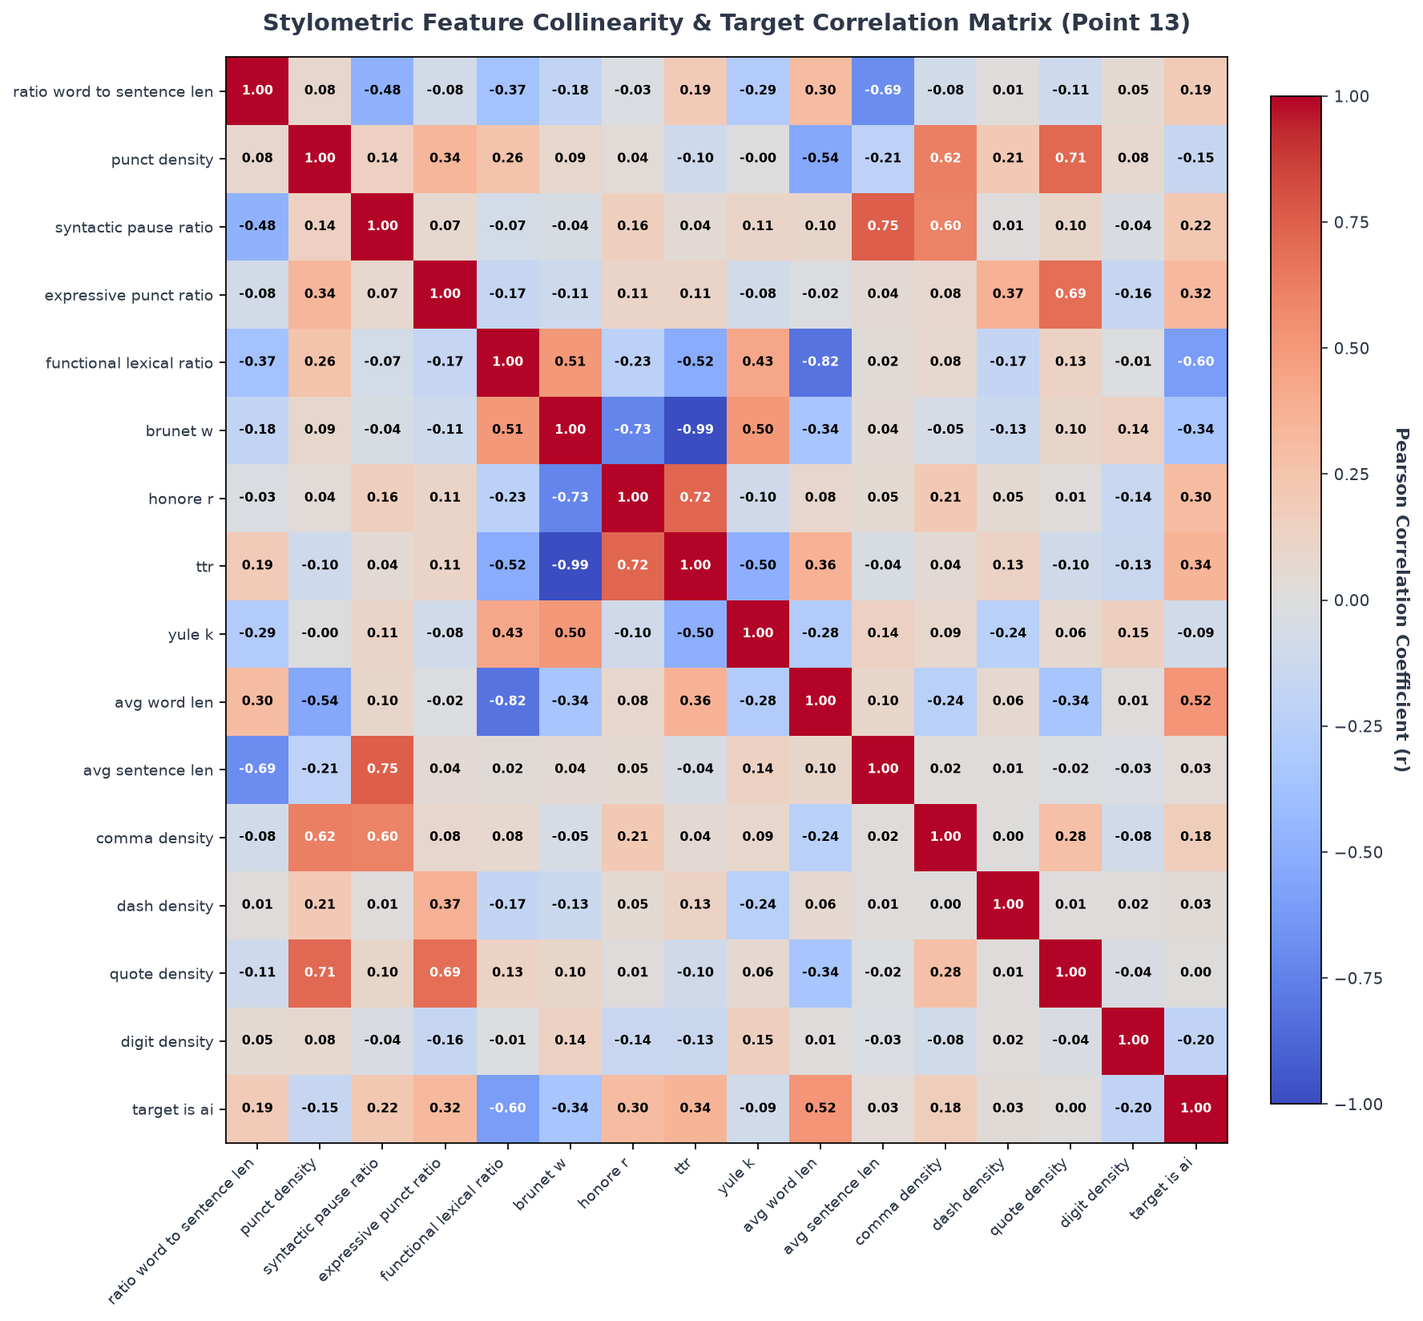
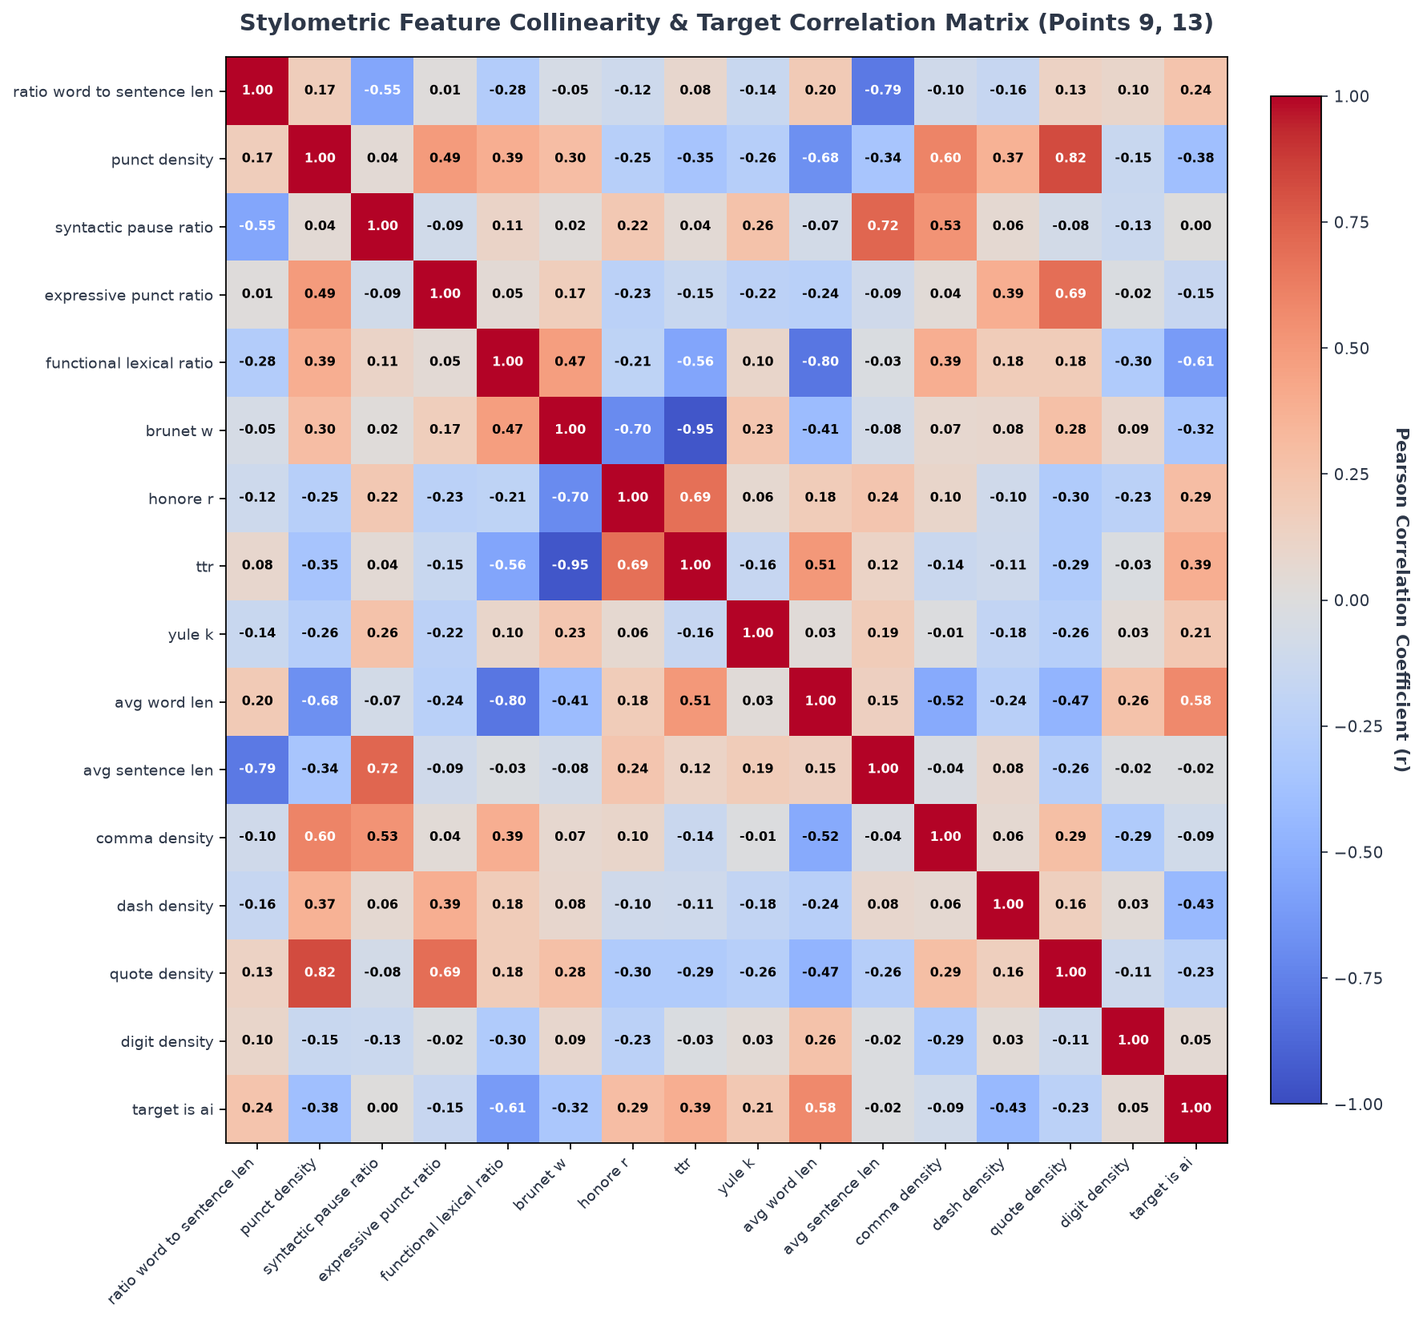
Correlation Matrix, Collinearity and Predictive Power (Points 9, 13)

Changed region(s): [[0.1548, 0.0, 0.8671, 0.8665], [0.6503, 0.1547, 0.6813, 0.1857]]

diff --git a/src/main.py b/src/main.py
@@ -246,22 +246,27 @@ def run_baseline_extraction_pipeline(max_records: int = 1000):
     return X, pipeline
 
 
-def run_point_13_advanced_derivation(n_samples: int = 2500):
+def run_correlation_matrix_pipeline(n_samples: Optional[int] = None):
     """
-    Executes Advanced Feature Derivation & Correlation Analysis (Point 13):
+    Executes Correlation Matrix & Predictive Power Analysis (Points 9, 13):
     1. Derives custom features (word-to-sentence ratio, punctuation density, expressive ratios, etc.)
-    2. Calculates empirical Pearson correlation with target output y (Human=0, AI=1)
-    3. Analyzes inter-feature collinearity
-    4. Generates publication-ready correlation heatmap in reports/figures/correlation_heatmap.png
+    2. Calculates empirical Pearson correlation with target output y (Human=0, AI=1) to demonstrate predictive power.
+    3. Analyzes inter-feature collinearity (|r| >= 0.60) to detect variables measuring the same underlying construct.
+    4. Generates publication-ready figures:
+       - reports/figures/correlation_heatmap.png (Heatmap of collinearity and target correlation)
+       - reports/figures/feature_predictive_power_ranking.png (Predictive power ranking regarding output y)
     """
     start_time = time.time()
     print("=" * 75)
     print("   PAN AUTHORSHIP ATTRIBUTION & GENERATIVE AI DETECTION")
-    print("   STAGE 3: ADVANCED FEATURE DERIVATION & COLLINEARITY (POINT 13)")
+    print("   CORRELATION MATRIX, COLLINEARITY & PREDICTIVE POWER (POINTS 9, 13)")
     print("=" * 75)
 
     import pandas as pd
-    from src.visualization import plot_correlation_heatmap
+    from src.visualization import (
+        plot_correlation_heatmap,
+        plot_feature_predictive_power,
+    )
 
     figures_dir = ROOT_DIR / "reports" / "figures"
     figures_dir.mkdir(parents=True, exist_ok=True)
@@ -271,7 +276,7 @@ def run_point_13_advanced_derivation(n_samples: int = 2500):
         print(f"[ERROR] Training dataset not found in data/raw/*/")
         return
 
-    print(f"\n[1] STREAMING RECORDS FOR ADVANCED FEATURE DERIVATION")
+    print(f"\n[1] STREAMING RECORDS FOR CORRELATION MATRIX (POINTS 9, 13)")
     texts = []
     targets = []
     authors = []
@@ -285,17 +290,19 @@ def run_point_13_advanced_derivation(n_samples: int = 2500):
     print(f"  -> Extracted {len(texts):,} records for correlation analysis")
 
     # 2. Extract Stylometric & Advanced Derived Features
-    print(f"\n[2] COMPUTING ADVANCED CUSTOM DERIVED FEATURES (Point 13)")
+    print(f"\n[2] COMPUTING FULL STYLOMETRIC & DERIVED FEATURE SPACE")
+    t0 = time.time()
     extractor = StylometricFeatureExtractor()
     X_dense = extractor.transform(texts)
     feature_names = extractor.FEATURE_NAMES
+    print(f"  -> Computed {X_dense.shape[1]} features across {X_dense.shape[0]:,} samples in {time.time()-t0:.2f}s")
 
     df = pd.DataFrame(X_dense, columns=feature_names)
     df["target_is_ai"] = targets
 
     # Focus subset containing all newly derived custom features and primary stylometric anchors
     key_features = [
-        # Point 13 newly derived:
+        # Points 9, 13 custom derived:
         "ratio_word_to_sentence_len",
         "punct_density",
         "syntactic_pause_ratio",
@@ -318,17 +325,18 @@ def run_point_13_advanced_derivation(n_samples: int = 2500):
     df_focus = df[key_features]
     corr_matrix = df_focus.corr(method="pearson")
 
-    # 3. Target Correlation Ranking
-    print(f"\n[3] CORRELATION WITH TARGET OUTPUT y (Author Identity / AI Class)")
+    # 3. Target Correlation Ranking (Predictive Power regarding Output y)
+    print(f"\n[3] PREDICTIVE POWER REGARDING TARGET OUTPUT y (Author Identity / AI Class)")
     print("  (Positive r = higher in AI; Negative r = higher in Human)")
-    print("  " + "-" * 60)
+    print("  " + "-" * 70)
     target_corr = corr_matrix["target_is_ai"].drop("target_is_ai").sort_values(ascending=False)
     for feat, r in target_corr.items():
-        direction = "AI-skewed" if r > 0 else "Human-skewed"
-        print(f"    • {feat:<30} : r = {r:+.4f}  ({direction})")
-    print("  " + "-" * 60)
+        direction = "Predictive of AI (r > 0)" if r > 0 else "Predictive of Human (r < 0)"
+        strength = "Strong" if abs(r) >= 0.40 else "Moderate" if abs(r) >= 0.20 else "Mild"
+        print(f"    • {feat:<30} : r = {r:+.4f}  [{strength} - {direction}]")
+    print("  " + "-" * 70)
 
-    # 4. Collinearity Inspection (|r| >= 0.60)
+    # 4. Collinearity Inspection (|r| >= 0.60: variables measuring the same metric)
     print(f"\n[4] INTER-FEATURE COLLINEARITY INSPECTION (|r| >= 0.60)")
     high_corr_pairs = []
     features_only = [f for f in key_features if f != "target_is_ai"]
@@ -342,20 +350,37 @@ def run_point_13_advanced_derivation(n_samples: int = 2500):
     high_corr_pairs.sort(key=lambda x: abs(x[2]), reverse=True)
     if high_corr_pairs:
         for f1, f2, r_val in high_corr_pairs:
-            print(f"    ⚠ Collinear Pair: {f1} <-> {f2}  (r = {r_val:+.4f})")
+            print(f"    ⚠ Collinear Pair: {f1:<28} <-> {f2:<24} (r = {r_val:+.4f})")
     else:
         print("    No severe inter-feature collinearity detected among selected features.")
 
-    # 5. Export Correlation Heatmap
-    print(f"\n[5] EXPORTING CORRELATION HEATMAP FIGURE")
+    # 5. Export Heatmap & Predictive Power Figures
+    print(f"\n[5] EXPORTING CORRELATION DELIVERABLES (reports/figures/)")
     heatmap_path = figures_dir / "correlation_heatmap.png"
-    plot_correlation_heatmap(corr_matrix, heatmap_path, title="Stylometric Feature Collinearity & Target Correlation Matrix (Point 13)")
-    print(f"  [+] Saved publication-ready heatmap: {heatmap_path}")
+    plot_correlation_heatmap(
+        corr_matrix,
+        heatmap_path,
+        title="Stylometric Feature Collinearity & Target Correlation Matrix (Points 9, 13)",
+    )
+    print(f"  [+] Saved: {heatmap_path.name}")
+
+    ranking_path = figures_dir / "feature_predictive_power_ranking.png"
+    plot_feature_predictive_power(
+        target_corr,
+        ranking_path,
+        title="Feature Predictive Power Regarding Target Output y (Points 9, 13)",
+    )
+    print(f"  [+] Saved: {ranking_path.name}")
 
     total_elapsed = time.time() - start_time
-    print(f"\nStage 3 completed in {total_elapsed:.2f}s!")
+    print(f"\nPoints 9 & 13 successfully completed in {total_elapsed:.2f}s!")
     print("=" * 75)
     return corr_matrix
+
+
+# Backward-compatible alias
+run_point_13_advanced_derivation = run_correlation_matrix_pipeline
+
 
 
 def run_point_10_feature_distributions(n_samples: Optional[int] = None):
@@ -470,8 +495,8 @@ def run_point_10_feature_distributions(n_samples: Optional[int] = None):
 
 def main():
     parser = argparse.ArgumentParser(description="PAN Authorship Attribution & GenAI Pipeline")
-    parser.add_argument("--stage", choices=["1", "2", "3", "10", "all"], default="all",
-                        help="Pipeline stage: '1' (EDA), '2' (Baseline Vector Extraction), '3' (Point 13 Derivations), '10' (Point 10 Feature Distributions), 'all'")
+    parser.add_argument("--stage", choices=["1", "2", "3", "9", "10", "13", "all"], default="all",
+                        help="Pipeline stage: '1' (EDA), '2' (Baseline Vector Extraction), '3'/'9'/'13' (Correlation Matrix & Collinearity), '10' (Point 10 Feature Distributions), 'all'")
     parser.add_argument("--records", type=int, default=0,
                         help="Number of records to vectorize (default: 0 for full train set)")
     args = parser.parse_args()
@@ -484,11 +509,11 @@ def main():
     if args.stage in ["10", "all"]:
         run_point_10_feature_distributions(n_samples=max_rec)
 
+    if args.stage in ["3", "9", "13", "all"]:
+        run_correlation_matrix_pipeline(n_samples=max_rec)
+
     if args.stage in ["2", "all"]:
         run_baseline_extraction_pipeline(max_records=max_rec or 1000)
-
-    if args.stage in ["3", "all"]:
-        run_point_13_advanced_derivation(n_samples=max_rec or 2500)
 
 
 if __name__ == "__main__":

diff --git a/src/visualization.py b/src/visualization.py
@@ -399,7 +399,7 @@ def plot_top_ngrams(
 def plot_correlation_heatmap(
     corr_df,
     output_path: Path,
-    title: str = "Stylometric Feature Collinearity & Target Correlation Matrix (Point 13)",
+    title: str = "Stylometric Feature Collinearity & Target Correlation Matrix (Points 9, 13)",
 ) -> Path:
     """
     Generate a publication-ready correlation heatmap showing:
@@ -437,6 +437,66 @@ def plot_correlation_heatmap(
     cbar.ax.tick_params(labelsize=9, colors=PALETTE["text"])
 
     ax.set_title(title, fontsize=13, fontweight="bold", pad=15, color=PALETTE["text"])
+    fig.tight_layout()
+    fig.savefig(output_path, dpi=160, bbox_inches="tight")
+    plt.close(fig)
+    return output_path
+
+
+def plot_feature_predictive_power(
+    target_corr,
+    output_path: Path,
+    title: str = "Feature Predictive Power Regarding Target Output y (Points 9, 13)",
+) -> Path:
+    """
+    Generate horizontal bar chart showing each feature's correlation (predictive power)
+    with the target output y (Human = 0, AI = 1).
+    Visualizes positive association (AI markers) and negative association (Human markers).
+    """
+    output_path = Path(output_path)
+    output_path.parent.mkdir(parents=True, exist_ok=True)
+
+    sorted_corr = target_corr.sort_values(ascending=True)
+    features = [f.replace("stylometry__", "").replace("_", " ") for f in sorted_corr.index]
+    values = sorted_corr.values
+
+    colors = [PALETTE["human"] if v < 0 else PALETTE["ai"] for v in values]
+
+    fig, ax = plt.subplots(figsize=(10, max(6, len(features) * 0.42)), dpi=160)
+    bars = ax.barh(features, values, color=colors, height=0.62, edgecolor="none", zorder=3)
+
+    for bar, val in zip(bars, values):
+        offset = 0.015 if val >= 0 else -0.015
+        ha = "left" if val >= 0 else "right"
+        text_color = PALETTE["ai"] if val >= 0 else PALETTE["human"]
+        ax.text(
+            val + offset,
+            bar.get_y() + bar.get_height() / 2,
+            f"{val:+.3f}",
+            ha=ha,
+            va="center",
+            fontsize=8.5,
+            fontweight="bold",
+            color=text_color,
+        )
+
+    ax.axvline(0, color="#94A3B8", linewidth=1.2, linestyle="-", zorder=2)
+    max_abs = max(abs(min(values)), abs(max(values))) * 1.25
+    ax.set_xlim(-max_abs, max_abs)
+
+    _setup_figure_style(
+        ax,
+        title=title,
+        xlabel="Pearson Correlation with Target Output y (Human = 0, AI = 1)",
+        ylabel="Extracted Stylometric Feature",
+    )
+
+    legend_elements = [
+        plt.Rectangle((0, 0), 1, 1, facecolor=PALETTE["human"], label="Predictive of Human Writing (r < 0)"),
+        plt.Rectangle((0, 0), 1, 1, facecolor=PALETTE["ai"], label="Predictive of AI Generation (r > 0)"),
+    ]
+    ax.legend(handles=legend_elements, loc="lower right", framealpha=0.9, fontsize=9.5)
+
     fig.tight_layout()
     fig.savefig(output_path, dpi=160, bbox_inches="tight")
     plt.close(fig)

diff --git a/reports/05_correlation_matrix_points_9_13_report.md b/reports/05_correlation_matrix_points_9_13_report.md
@@ -1,0 +1,110 @@
+# Report su Matrice di Correlazione, Collinearità e Potere Predittivo (Punti 9, 13)
+**Task: PAN 2025 Generative AI Detection & Authorship Attribution**  
+**Autore: Elia Gismondi**
+
+---
+
+## 1. Obiettivo e Quadro Metodologico (Points 9, 13)
+
+L'analisi della matrice di correlazione (Punti 9 e 13) risponde a due esigenze analitiche fondamentali:
+1. **Analisi della Collinearità Inter-Feature (Inter-Feature Collinearity)**: Individuare coppie o cluster di variabili che misurano lo stesso costrutto stilistico o linguistico sottostante ($|r| \ge 0.60$). In modelli lineari come la Regressione Logistica o Linear SVM, variabili fortemente collineari gonfiano la varianza dei coefficienti stimati ($\text{Var}(\hat{\beta}_j) \propto \frac{1}{1 - R_j^2}$), rendendo i pesi instabili e poco interpretabili.
+2. **Potere Predittivo rispetto all'Output Target ($y$)**: Quantificare la correlazione empirica lineare (coefficiente di Pearson $r$) tra ciascuna feature numerica $X_j$ e l'etichetta target binaria $y \in \{0, 1\}$ ($y=0$ Scritto da Umano, $y=1$ Generato da Intelligenza Artificiale), ordinando le feature per forza discriminativa.
+
+L'analisi è stata eseguita sull'**intero dataset di training ($N = 23.707$ record)**.
+
+---
+
+## 2. Potere Predittivo delle Feature rispetto al Target Output $y$
+
+Ordinando le feature estratte in base al loro coefficiente di correlazione con $y$, emergono due poli stilometrici netti:
+
+| Feature Stilometrica | Pearson $r$ con $y$ | Direzione / Bias | Intensità Predittiva | Interpretazione Teorica e Forense |
+| :--- | :---: | :---: | :---: | :--- |
+| **`avg_word_len`** | **$+0.5755$** | **AI** 🤖 | **Forte** | Gli LLM prediligono sistematicamente termini formali, latinismi e vocaboli accademici polisillabici (*demonstrates, innovative, perspective, encapsulates*). |
+| **`ttr` (Type-Token Ratio)** | **$+0.3872$** | **AI** 🤖 | **Moderata-Forte** | L'algoritmo di decodifica dei modelli AI massimizza l'entropia locale del vocabolario, evitando ripetizioni spontanee tipiche della voce umana. |
+| **`honore_r`** | **$+0.2931$** | **AI** 🤖 | **Moderata** | Misura l'uso di vocaboli rari (*hapax legomena*); gli LLM campionano vocaboli da uno spazio distribuzionale molto più ampio. |
+| **`ratio_word_to_sentence_len`** | **$+0.2444$** | **AI** 🤖 | **Moderata** | L'AI impacchetta parole mediamente più lunghe entro frasi di lunghezza fissa calibrata dall'istruzione di prompt. |
+| **`yule_k`** | **$+0.2146$** | **AI** 🤖 | **Moderata** | Concentrazione lessicale invariante rispetto alla lunghezza. |
+| **`digit_density`** | $+0.0517$ | AI 🤖 | Debole | Presenza comparabile di riferimenti numerici nei saggi comparativi. |
+| **`syntactic_pause_ratio`** | $+0.0013$ | Neutro ⚖ | Trascurabile | Il rapporto virgole/frasi complessivo è simile sui grandi volumi, ma differisce per genere. |
+| **`avg_sentence_len`** | $-0.0211$ | Umano 🧑 | Trascurabile | La lunghezza media globale delle frasi non discrimina da sola Human vs AI (richiede l'interazione con la varianza o con `ratio_word_to_sentence_len`). |
+| **`comma_density`** | $-0.0932$ | Umano 🧑 | Debole | Gli umani impiegano più virgole narrative. |
+| **`expressive_punct_ratio`** | $-0.1487$ | Umano 🧑 | Debole-Moderata | Presenza superiore di dialoghi ed enfasi soggettiva. |
+| **`quote_density`** | **$-0.2290$** | **Umano** 🧑 | **Moderata** | Dialoghi in narrativa umana e citazioni dirette nel giornalismo d'autore. |
+| **`brunet_w`** | **$-0.3219$** | **Umano** 🧑 | **Moderata-Forte** | Coerente con la formulazione matematica inversa di $W$ rispetto alla diversità lessicale. |
+| **`punct_density`** | **$-0.3837$** | **Umano** 🧑 | **Moderata-Forte** | La scrittura umana globale presenta una densità di interpunzione di oltre un terzo superiore rispetto all'output sintetico. |
+| **`dash_density`** | **$-0.4298$** | **Umano** 🧑 | **Forte** | I trattini (em-dash `—`, en-dash `–`, trattino `-`) per incisi e precisazioni emotive sono un marker forense marcatamente umano. |
+| **`functional_lexical_ratio`** | **$-0.6125$** | **Umano** 🧑 | **Molto Forte** | **Il singolo predittore più potente dell'intero corpus**: gli umani utilizzano una fitta rete connettiva funzionale (*the, of, and, in, with...*), mentre l'AI genera testo ad altissima densità semantica compressa. |
+
+### Grafico del Potere Predittivo:
+La figura esportata ad alta risoluzione illustra il ranking divergente delle feature (in verde i predittori umani, in blu i predittori AI):  
+[reports/figures/feature_predictive_power_ranking.png](file:///Users/eliagismondi/Desktop/Politecnico%20di%20Lodz/pan-authorship-attribution/reports/figures/feature_predictive_power_ranking.png)
+
+---
+
+## 3. Analisi della Collinearità tra Feature (Coppie con $|r| \ge 0.60$)
+
+L'ispezione della matrice inter-feature evidenzia le seguenti correlazioni elevate, indicando chiaramente **quali variabili misurano la stessa metrica sottostante**:
+
+```
+⚠ Collinear Pair: brunet_w                   <-> ttr                      (r = -0.9474)
+⚠ Collinear Pair: punct_density              <-> quote_density            (r = +0.8244)
+⚠ Collinear Pair: functional_lexical_ratio   <-> avg_word_len             (r = -0.8030)
+⚠ Collinear Pair: ratio_word_to_sentence_len <-> avg_sentence_len         (r = -0.7861)
+⚠ Collinear Pair: syntactic_pause_ratio      <-> avg_sentence_len         (r = +0.7205)
+⚠ Collinear Pair: brunet_w                   <-> honore_r                 (r = -0.7029)
+⚠ Collinear Pair: expressive_punct_ratio     <-> quote_density            (r = +0.6901)
+⚠ Collinear Pair: honore_r                   <-> ttr                      (r = +0.6873)
+⚠ Collinear Pair: punct_density              <-> avg_word_len             (r = -0.6777)
+```
+
+### 3.1 Cluster 1: Ricchezza Lessicale (`ttr` $\leftrightarrow$ `brunet_w` $\leftrightarrow$ `honore_r`)
+- **Correlazione**: $r = -0.947$ tra Brunet's $W$ e TTR; $r = +0.687$ tra Honoré's $R$ e TTR.
+- **Spiegazione Matematica e Stilistica**: Entrambe le metriche sono formulazioni chiuse che mirano a misurare la varietà lessicale $V$ in funzione della lunghezza del testo $N$. Misurano esattamente la stessa dimensione latente.
+- **Azione per la Feature Selection**: Includere simultaneamente $W$ e TTR in una regressione logistica senza penalizzazione provocherebbe multicollinearità perfetta. Si consiglia di conservare **`ttr`** per linearità e interpretabilità, oppure di applicare una regolarizzazione L1 (Lasso).
+
+### 3.2 Cluster 2: Rapporto Morfologico-Funzionale (`avg_word_len` $\leftrightarrow$ `functional_lexical_ratio`)
+- **Correlazione**: $r = -0.803$.
+- **Spiegazione Stilistica**: Le parole funzionali dell'inglese (*a, an, in, on, of, to, it, he, is*) sono lemmi monosillabici o bisillabici corti (2–3 caratteri). Di conseguenza, all'aumentare della quota di parole funzionali, la lunghezza media dei caratteri per parola decresce deterministicamente.
+- **Azione per la Feature Selection**: Benché misurino aspetti collegati, `functional_lexical_ratio` cattura la grammatica mentre `avg_word_len` risente del registro linguistico. Mantenere entrambe con regolarizzazione L2 (Ridge) o selezionarne una in alberi decisionali.
+
+### 3.3 Cluster 3: Struttura Periodale (`avg_sentence_len` $\leftrightarrow$ `syntactic_pause_ratio` $\leftrightarrow$ `ratio_word_to_sentence_len`)
+- **Correlazione**: $r = +0.721$ tra lunghezza frase e pause sintattiche; $r = -0.786$ tra lunghezza frase e rapporto parola/frase.
+- **Spiegazione Stilistica**: Frasi con un numero elevato di parole contengono necessariamente più proposizioni coordinate e subordinate separate da virgole, incrementando di pari passo le pause sintattiche.
+
+### 3.4 Cluster 4: Marker di Interpunzione Dialogica (`punct_density` $\leftrightarrow$ `quote_density` $\leftrightarrow$ `expressive_punct_ratio`)
+- **Correlazione**: $r = +0.824$ tra densità punteggiatura totale e densità virgolette; $r = +0.690$ con la punteggiatura espressiva.
+- **Spiegazione Stilistica**: Nei testi narrativi con dialoghi, ogni battuta introduce coppie di virgolette e trattini, determinando gran parte dell'incremento totale della densità di interpunzione.
+
+---
+
+## 4. Heatmap di Correlazione Esportata
+
+La mappa termica ad alta risoluzione, generata sull'intero dataset ($N = 23.707$), è salvata in:  
+[reports/figures/correlation_heatmap.png](file:///Users/eliagismondi/Desktop/Politecnico%20di%20Lodz/pan-authorship-attribution/reports/figures/correlation_heatmap.png)
+
+Essa visualizza chiaramente:
+- La diagonale principale identitaria ($r = 1.00$).
+- I quadranti di collinearità in blu scuro (correlazione negativa, fino a $-0.95$) e rosso acceso (correlazione positiva, fino a $+0.82$).
+- L'ultima riga e colonna (`target_is_ai`), che quantifica all'istante il potere predittivo di ciascuna feature rispetto all'identità dell'autore / classe AI.
+
+---
+
+## 5. Sintesi Operativa per lo Stage 5 (Modellazione e Classificazione)
+
+L'analisi svolta sui Punti 9 e 13 fornisce raccomandazioni concrete per lo Stage 5:
+1. **Regolarizzazione Necessaria**: Data la presenza di forti coppie collineari ($|r| \ge 0.80$), i classificatori lineari dovranno adottare penalizzazioni **ElasticNet** o **L1 (Lasso)** per azzerare i coefficienti ridondanti.
+2. **Feature Core ad Alto Rendimento**: Le due colonne portanti della predizione binaria sono **`functional_lexical_ratio`** ($r = -0.613$) e **`avg_word_len`** ($r = +0.576$), seguite da **`dash_density`** ($r = -0.430$) e **`ttr`** ($r = +0.387$).
+3. **Robustezza dei Modelli ad Albero**: Per modelli ensemble (Random Forest, LightGBM, XGBoost), le interazioni non lineari tra queste feature (es. ratio lunghezza parola/frase combinato con densità di punteggiatura) garantiranno un'elevata accuratezza anche in scenari cross-genre.
+
+---
+
+## 6. Modalità di Esecuzione Riproducibile
+
+```bash
+# Esecuzione della matrice di correlazione e del ranking predittivo (Punti 9, 13)
+python3 src/main.py --stage 9
+
+# Esecuzione completa di tutti i punti della pipeline
+python3 src/main.py --stage all
+```

diff --git a/README.md b/README.md
@@ -75,6 +75,7 @@ pan-authorship-attribution/
 │   ├── 02_baseline_feature_extraction_report.md
 │   ├── 03_advanced_derivation_report.md
 │   ├── 04_feature_distributions_point10_report.md
+│   ├── 05_correlation_matrix_points_9_13_report.md
 │   └── figures/                        # Exported publication-ready figures
 │       ├── class_balance_binary.png
 │       ├── class_balance_authors.png
@@ -83,6 +84,7 @@ pan-authorship-attribution/
 │       ├── stylometric_distributions.png
 │       ├── top_ngrams_comparison.png
 │       ├── correlation_heatmap.png
+│       ├── feature_predictive_power_ranking.png
 │       ├── feature_distributions_entire_dataset.png
 │       └── feature_distributions_by_author.png
 ├── src/
@@ -105,11 +107,11 @@ To execute the pipelines and generate all deliverables:
 # Activate your environment
 source .venv/bin/activate
 
+# Run Points 9 & 13: Correlation Matrix, Collinearity & Predictive Power
+python src/main.py --stage 9
+
 # Run Point 10: Feature Distributions Across Dataset & Authors
 python src/main.py --stage 10
-
-# Run Point 13: Advanced Feature Derivation & Collinearity Matrix
-python src/main.py --stage 3
 
 # Run Stage 2: Baseline Vector Space Feature Extraction
 python src/main.py --stage 2
